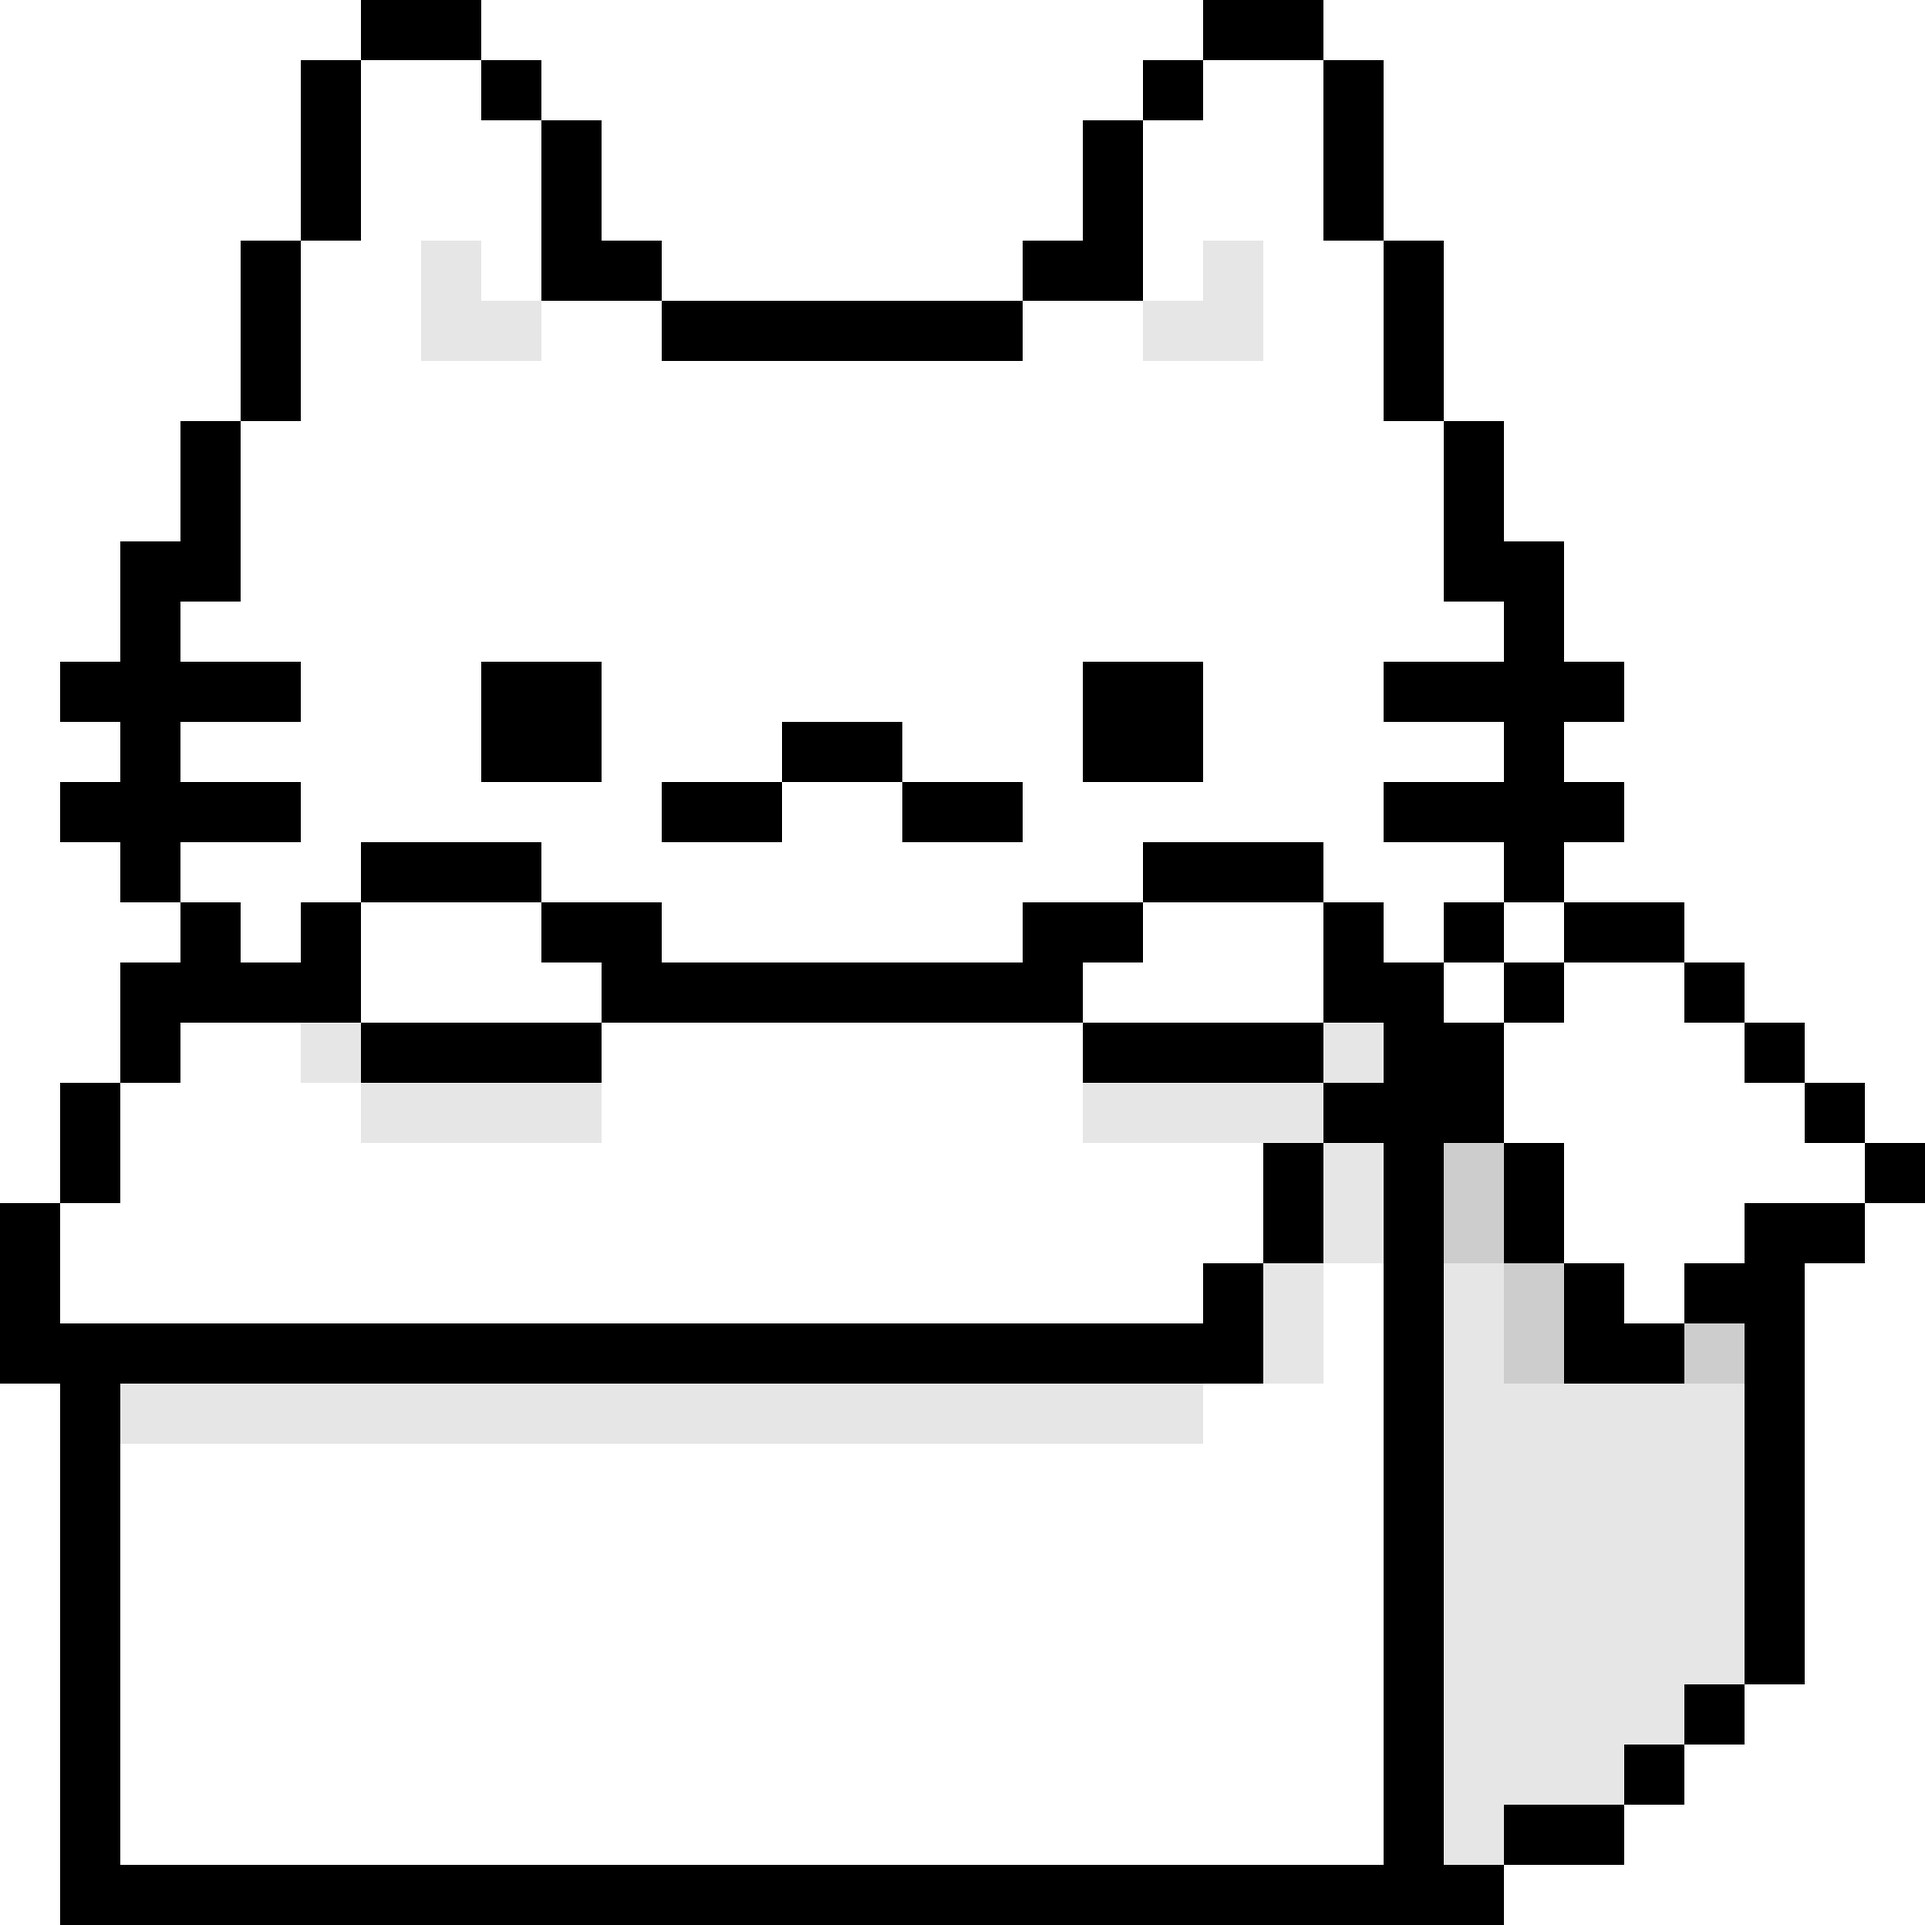
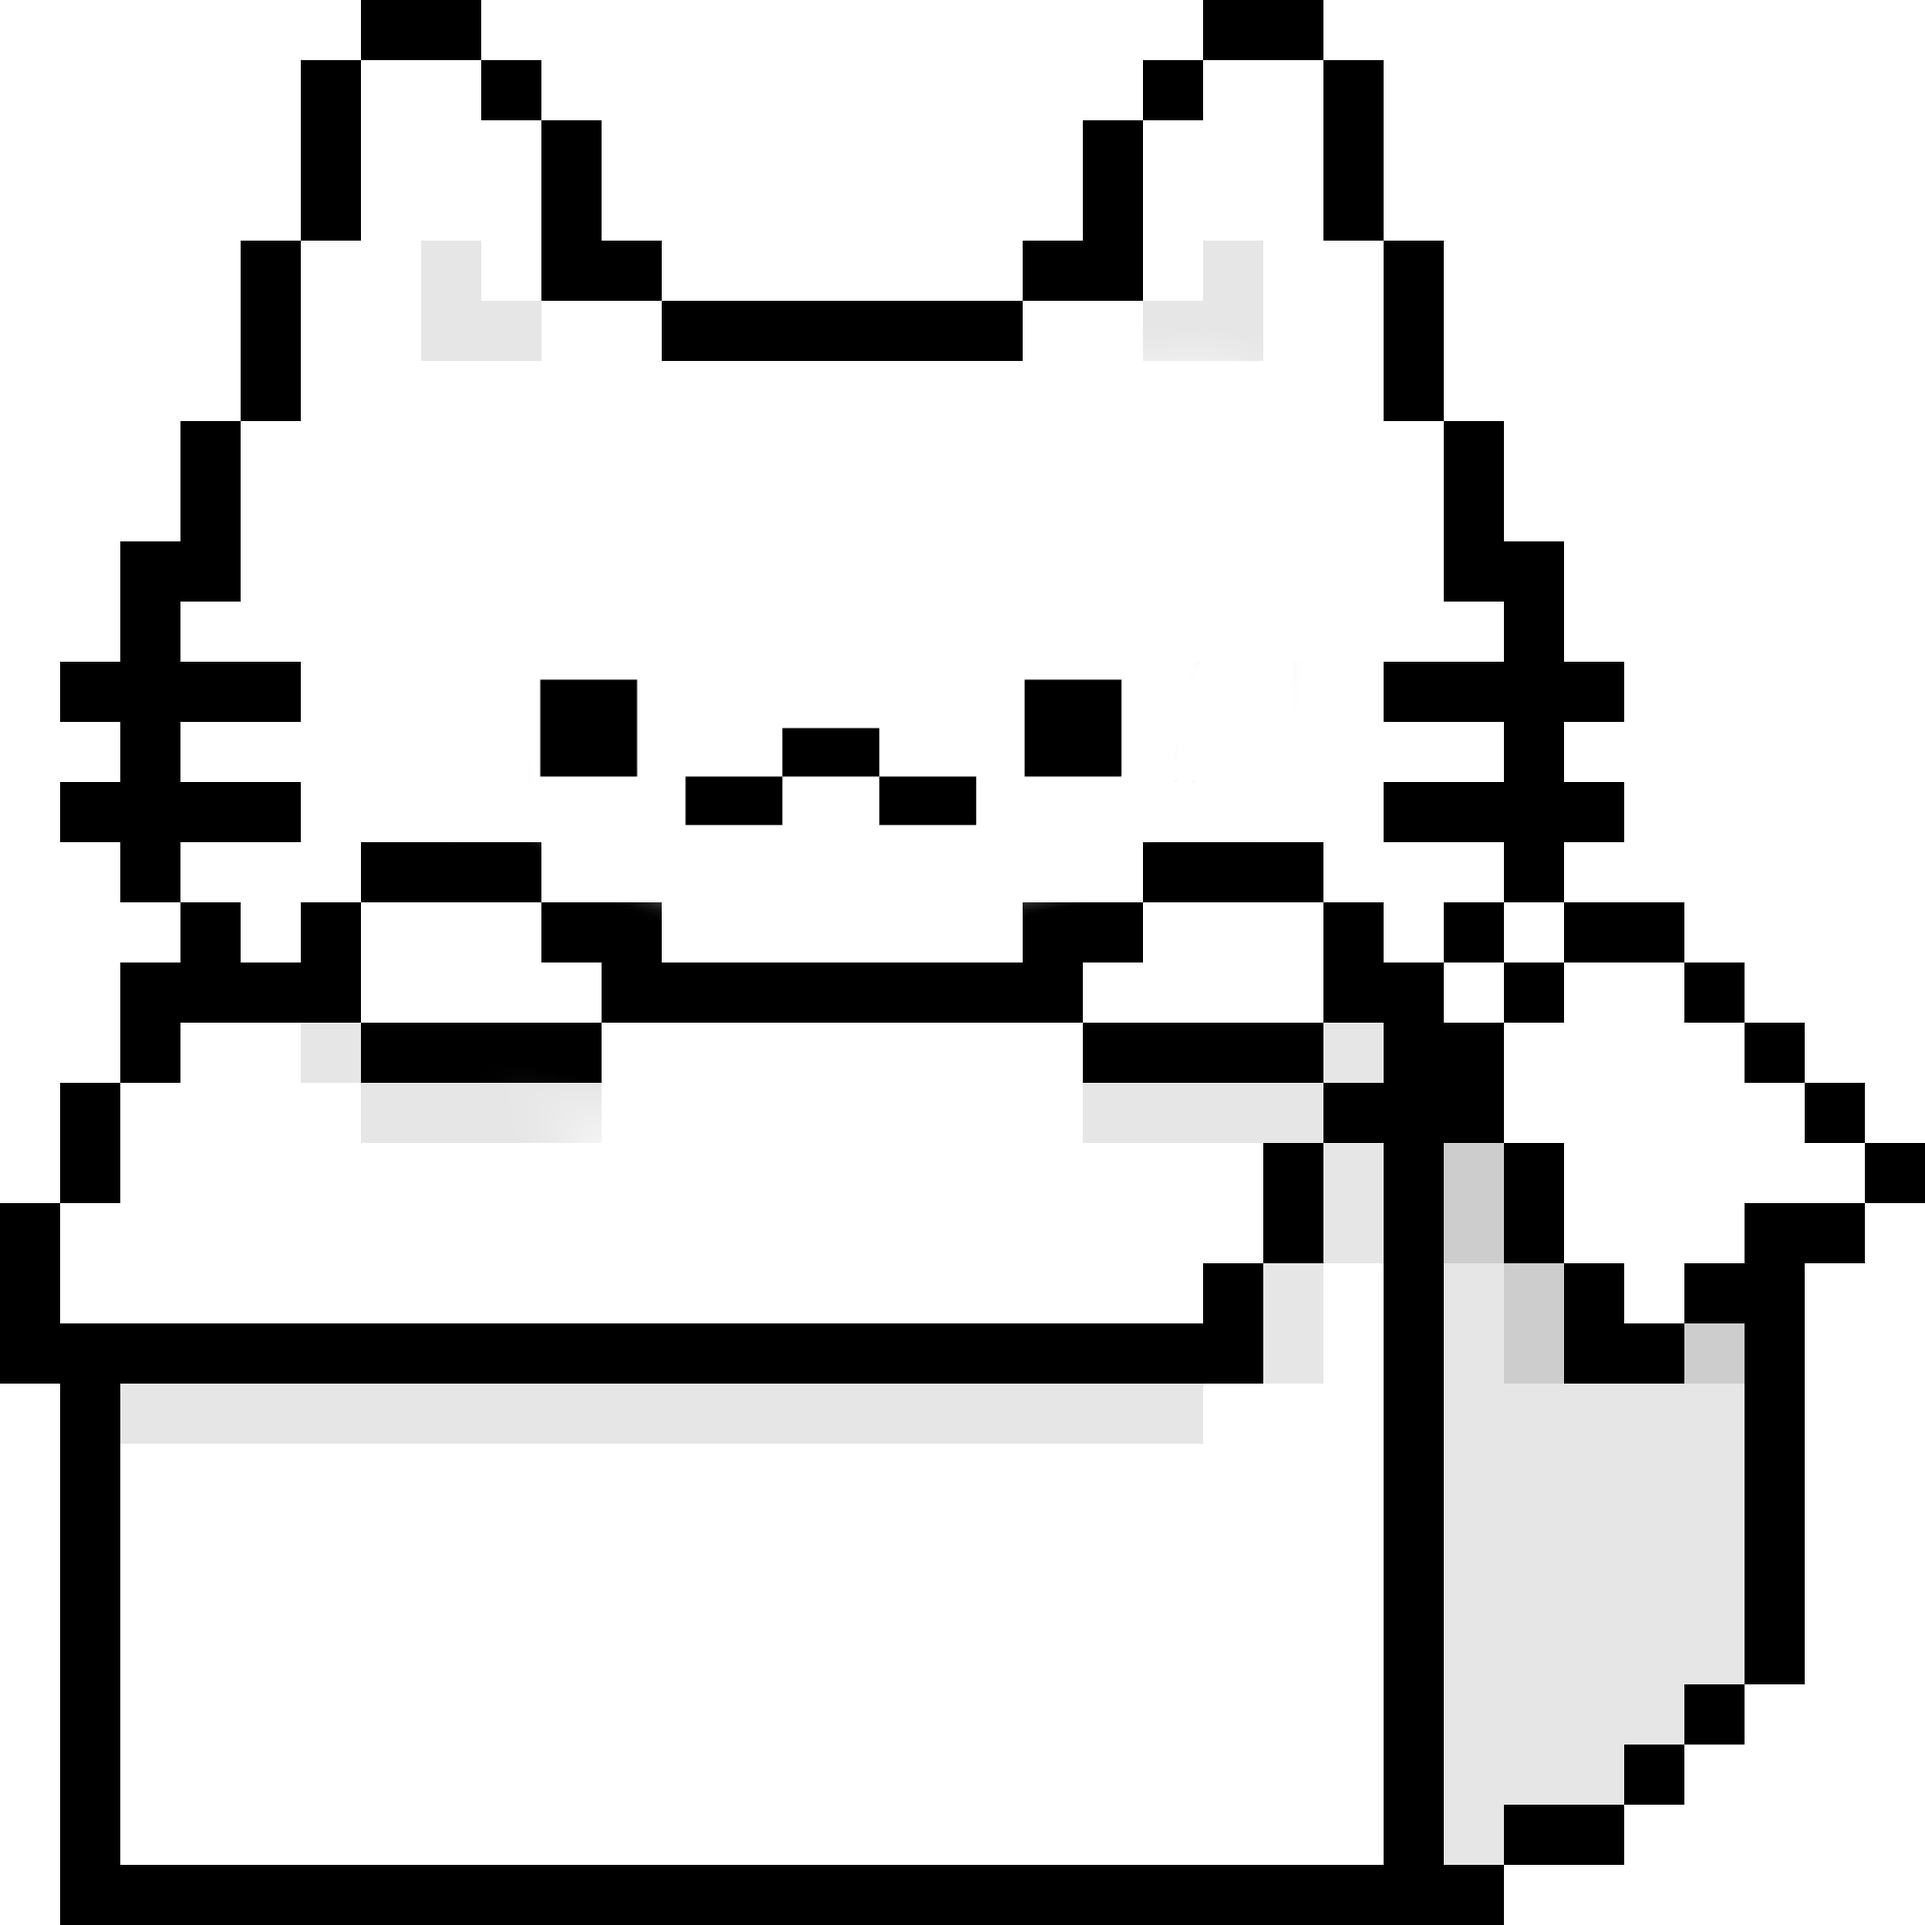
Add idle animation cycling through cat_, cat_z, cat_zz
- Alternate between cat_.png → cat_z.png → cat_zz.png every 1.2s on idle
- Stop animation timer on wake
- Add cat_.png and cat_z.png sprites

diff --git a/pet.py b/pet.py
@@ -585,6 +585,9 @@ class DesktopPet(QWidget):
         self._idle_timer.setSingleShot(True)
         self._idle_timer.timeout.connect(self._on_idle)
         self._idle_timer.start(60000)
+        self._zz_frame = 0
+        self._zz_timer = QTimer(self)
+        self._zz_timer.timeout.connect(self._tick_zz)
 
         self._load_history()
         self._apply_layout()
@@ -901,14 +904,26 @@ class DesktopPet(QWidget):
         QApplication.quit()
 
     # ── 유휴 상태 ───────────────────────────────────────────────────
+    _ZZ_FRAMES = ["pets/cat/cat_.png", "pets/cat/cat_z.png", "pets/cat/cat_zz.png"]
+
     def _on_idle(self):
         self._idle = True
-        self._set_pet_image("pets/cat/cat_zz.png")
+        self._zz_frame = 0
+        self._set_pet_image(self._ZZ_FRAMES[0])
+        self._zz_timer.start(1200)
+
+    def _tick_zz(self):
+        if not self._idle:
+            self._zz_timer.stop()
+            return
+        self._zz_frame = (self._zz_frame + 1) % len(self._ZZ_FRAMES)
+        self._set_pet_image(self._ZZ_FRAMES[self._zz_frame])
 
     def _reset_idle(self, jump=True):
         self._idle_timer.start(60000)
         if self._idle:
             self._idle = False
+            self._zz_timer.stop()
             self._just_woke = True
             img = "pets/cat/cat_box.png" if self._locked else "pets/cat/cat_defalt.png"
             self._set_pet_image(img)
@@ -940,7 +955,7 @@ class DesktopPet(QWidget):
         self._pet_h = sz
         self._pet_label.setFixedSize(sz, sz)
         img = "pets/cat/cat_box.png" if self._locked else \
-              "pets/cat/cat_zz.png" if self._idle else "pets/cat/cat_defalt.png"
+              "pets/cat/cat_z.png" if self._idle else "pets/cat/cat_defalt.png"
         self._set_pet_image(img)
         self._apply_layout()
 
